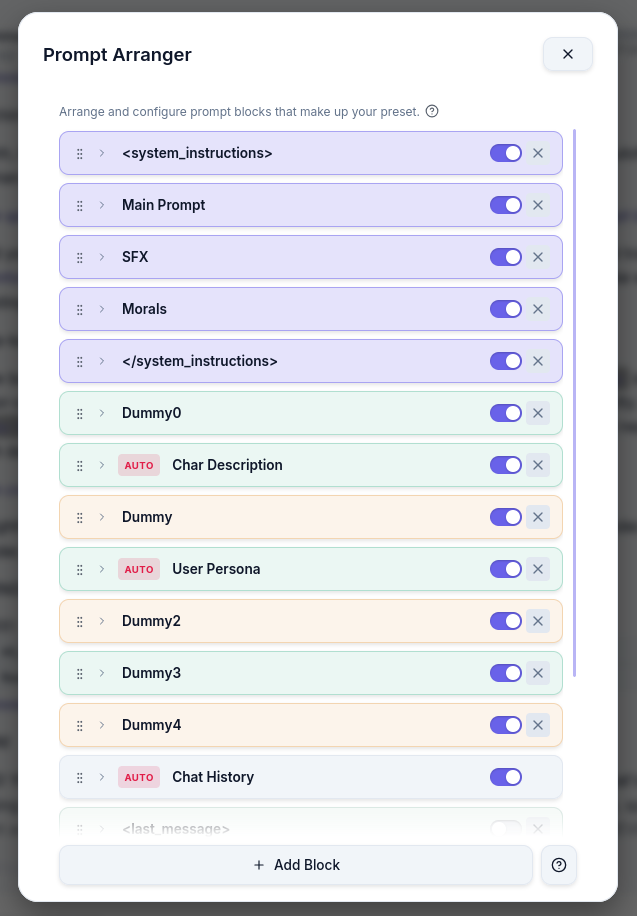
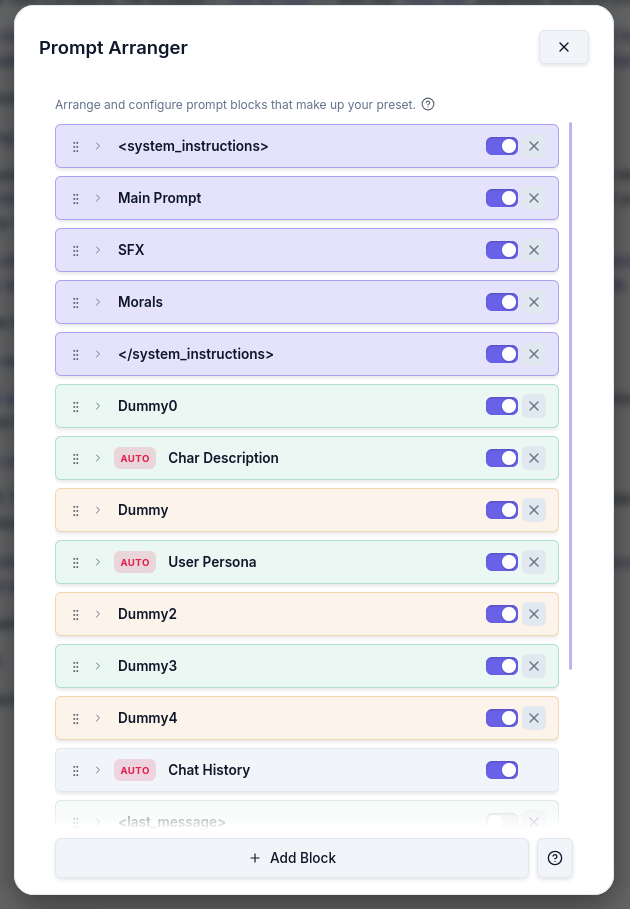
fix css inconsistencies, update screenshots

diff --git a/templates/characters.html b/templates/characters.html
@@ -113,7 +113,7 @@
                 {% for img in char.images %}
                 {{ media_thumbnail(img, "deleteCharMedia", ' id="char-media-' + img.id + '"') }}
                 {% endfor %}
-                <label class="btn btn-secondary btn-sm block-media-btn" style="height: 48px; padding: 0 0.5rem; display: flex; align-items: center; justify-content: center; cursor: pointer; border-radius: 4px; border-style: dashed; flex-shrink: 0; margin: 0;" title="Add Image or Audio">
+                <label class="btn btn-secondary btn-sm block-media-btn" style="height: 48px; padding: 0 0.5rem; display: flex; align-items: center; justify-content: center; cursor: pointer; border-radius: var(--radius-sm); border-style: dashed; flex-shrink: 0; margin: 0;" title="Add Image or Audio">
                   {{ icon_plus(20) }}
                   <input type="file" accept="image/*,audio/*" class="hidden block-media-input" data-char-id="{{ char.id }}" onchange="uploadCharMedia(this)">
                 </label>
@@ -220,7 +220,7 @@
                   {% for img in block.images %}
                   {{ media_thumbnail(img, "deleteCharBlockMedia", '') }}
                   {% endfor %}
-                  <label class="btn btn-secondary btn-sm" style="height: 48px; padding: 0 0.5rem; display: flex; align-items: center; justify-content: center; cursor: pointer; border-radius: 4px; border-style: dashed; flex-shrink: 0; margin: 0;" title="Add Image or Audio">
+                  <label class="btn btn-secondary btn-sm" style="height: 48px; padding: 0 0.5rem; display: flex; align-items: center; justify-content: center; cursor: pointer; border-radius: var(--radius-sm); border-style: dashed; flex-shrink: 0; margin: 0;" title="Add Image or Audio">
                     {{ icon_plus(20) }}
                     <input type="file" accept="image/*,audio/*" class="hidden" data-char-id="{{ char.id }}" data-block-id="{{ block.id }}" onchange="uploadCharBlockMedia(this)">
                   </label>
@@ -273,7 +273,7 @@
     </div>
     
     <div class="char-block-media-section" style="margin-top: 0.5rem; display: flex; gap: 0.5rem; flex-wrap: wrap; align-items: center;">
-      <label class="btn btn-secondary btn-sm block-media-btn" style="height: 48px; padding: 0 0.5rem; display: flex; align-items: center; justify-content: center; cursor: pointer; border-radius: 4px; border-style: dashed; flex-shrink: 0; margin: 0;" title="Add Image or Audio">
+      <label class="btn btn-secondary btn-sm block-media-btn" style="height: 48px; padding: 0 0.5rem; display: flex; align-items: center; justify-content: center; cursor: pointer; border-radius: var(--radius-sm); border-style: dashed; flex-shrink: 0; margin: 0;" title="Add Image or Audio">
         {{ icon_plus(20) }}
         <input type="file" accept="image/*,audio/*" class="hidden block-media-input">
       </label>

diff --git a/partials/modals/itemizer.html b/partials/modals/itemizer.html
@@ -6,8 +6,8 @@
     <div class="text-xs text-muted">Visualize and estimate tokens for the outbound prompt.</div>
     <div class="flex items-center gap-3">
       <span
-        class="text-sm font-mono bg-surface-2 px-2 py-1 rounded"
-        style="background: var(--surface-2); border: 1px solid var(--border)"
+        class="text-sm font-mono"
+        style="background: var(--surface-2); border: 1px solid var(--border); border-radius: var(--radius-sm); padding: 0.35rem 0.75rem"
         title="Uses cl100k_base estimation"
       >
         Tokens: <span class="font-bold text-(--active-text)" x-text="totalTokens">...</span>
@@ -27,8 +27,8 @@
     <template x-for="(msg, i) in messages" :key="i">
       <div
         x-data="{ expanded: false }"
-        class="rounded-md overflow-hidden shrink-0"
-        style="border: 1px solid var(--border)"
+        class="overflow-hidden shrink-0"
+        style="border: 1px solid var(--border); border-radius: var(--radius-sm)"
       >
         <div
           class="px-3 py-2 flex justify-between items-center text-xs font-bold uppercase tracking-wider cursor-pointer select-none"
@@ -54,15 +54,15 @@
             <template x-for="(part, j) in msg.parts" :key="j">
               <div
                 x-show="part.type !== 'reasoning'"
-                :class="part.type !== 'text' ? 'text-(--accent) font-mono text-xs p-2 rounded bg-surface-2 border inline-block w-max' : 'whitespace-pre-wrap'"
-                :style="part.type !== 'text' ? 'background: var(--surface-2); border-color: var(--border);' : ''"
+                :class="part.type !== 'text' ? 'text-(--accent) font-mono text-xs p-2 bg-surface-2 border inline-block w-max' : 'whitespace-pre-wrap'"
+                :style="part.type !== 'text' ? 'background: var(--surface-2); border-color: var(--border); border-radius: var(--radius-sm);' : ''"
                 x-text="part.type !== 'text' ? part.text + ' (' + part.tokens + ' tk)' : part.text"
               ></div>
             </template>
             <template x-for="(part, j) in msg.parts" :key="'r'+j">
               <div x-show="part.type === 'reasoning'" x-data="{ rOpen: false }"
-                class="reasoning-itemizer border-l-2 rounded p-2 mt-1"
-                style="border-color: var(--accent); background: var(--surface-2);">
+                class="reasoning-itemizer border-l-2 p-2 mt-1"
+                style="border-color: var(--accent); background: var(--surface-2); border-radius: var(--radius-sm);">
                 <div class="flex items-center justify-between cursor-pointer select-none text-xs text-muted"
                   @click="rOpen = !rOpen">
                   <span class="font-mono" x-text="'reasoning (' + part.tokens + ' tk)'"></span>

diff --git a/templates/macros.html b/templates/macros.html
@@ -32,7 +32,7 @@
 
    <div x-show="open" @click.away="open = false" x-transition.opacity.duration.200ms
         class="absolute top-full left-0 right-0 mt-1 z-50 max-h-60 overflow-y-auto"
-        style="background: var(--surface-2); border: 1px solid var(--border); border-radius: var(--radius-md); box-shadow: var(--shadow-lg); display: none;">
+        style="background: var(--surface-2); border: 1px solid var(--border); border-radius: var(--radius-sm); box-shadow: var(--shadow-lg); display: none;">
 
       {% for opt in options %}
       <div class="px-3 py-2 cursor-pointer transition-colors duration-150 {{ extra_classes }}"
@@ -73,15 +73,14 @@
        }
      }">
   <button type="button" @click="open = !open"
-          class="form-control flex items-center justify-between gap-1 text-sm cursor-pointer"
-          style="padding: 0.35rem 0.5rem;">
+          class="btn btn-secondary btn-sm flex items-center justify-between gap-1 cursor-pointer">
     <span x-text="label"></span>
     <span class="text-muted" :class="open ? 'rotate-180' : ''"
           style="transition: transform 0.2s; display: inline-flex;">{{ icon_chevron_down(12) }}</span>
   </button>
   <div x-show="open" @click.away="open = false" x-transition.opacity.duration.200ms
        class="absolute top-full right-0 mt-1 z-50"
-       style="background: var(--surface-2); border: 1px solid var(--border); border-radius: var(--radius-md); box-shadow: var(--shadow-lg); display: none; min-width: 120px;">
+               style="background: var(--surface-2); border: 1px solid var(--border); border-radius: var(--radius-sm); box-shadow: var(--shadow-lg); display: none; min-width: 120px;">
     <div class="px-3 py-2 cursor-pointer text-sm whitespace-nowrap"
          :class="{ 'text-[var(--accent)] font-medium': active === 'newest' }"
          @click="select('newest')"
@@ -246,7 +245,7 @@
 {% endmacro %}
 
 {% macro media_thumbnail(img, action_name, extra_attrs='') %}
-<div class="relative group" style="width:48px;height:48px;border-radius:4px;overflow:hidden;border:1px solid var(--border);flex-shrink:0" data-image-id="{{ img.id }}"{{ extra_attrs | safe }}>
+<div class="relative group" style="width:48px;height:48px;border-radius:var(--radius-sm);overflow:hidden;border:1px solid var(--border);flex-shrink:0" data-image-id="{{ img.id }}"{{ extra_attrs | safe }}>
   {% if img.mime_type and img.mime_type.startswith('audio/') %}
   <div style="width:100%;height:100%;background:var(--surface-3);display:grid;place-items:center;" title="Audio Attachment">{{ icon_music(24) }}</div>
   {% else %}

diff --git a/static/css/components.css b/static/css/components.css
@@ -15,7 +15,7 @@
     background: var(--surface-2);
     border: 1px solid var(--border);
     color: var(--text);
-    border-radius: var(--radius-md);
+    border-radius: var(--radius-sm);
     padding: 0.6rem 0.8rem;
     font-family: inherit;
     font-size: 0.9rem;
@@ -83,7 +83,7 @@
   /* Buttons */
   .btn {
     padding: 0.5rem 1rem;
-    border-radius: var(--radius-md);
+    border-radius: var(--radius-sm);
     border: 1px solid transparent;
     cursor: pointer;
     font-size: 0.85rem;
@@ -141,7 +141,7 @@
     position: relative;
     width: 32px;
     height: 18px;
-    border-radius: 9px;
+    border-radius: var(--radius-sm);
     background: var(--surface-3);
     cursor: pointer;
     transition: background 0.3s ease;
@@ -197,7 +197,7 @@
   }
   .radio-add-row {
     border: 1px dashed var(--border);
-    border-radius: var(--radius-md);
+    border-radius: var(--radius-sm);
     cursor: pointer;
     transition: all var(--transition);
   }
@@ -241,7 +241,7 @@
   .arranger-item {
     background: var(--surface-2);
     border: 1px solid var(--border);
-    border-radius: var(--radius-md);
+    border-radius: var(--radius-sm);
     padding: 0.5rem 0.75rem;
     cursor: grab;
     transition: all var(--transition);
@@ -270,7 +270,7 @@
     outline: 2px dashed var(--accent);
     outline-offset: 2px;
     background: var(--active-bg);
-    border-radius: 4px;
+    border-radius: var(--radius-sm);
   }
 
   .arranger-header {
@@ -332,7 +332,7 @@
     text-transform: uppercase;
     font-weight: 700;
     padding: 0.2rem 0.4rem;
-    border-radius: 4px;
+    border-radius: var(--radius-sm);
     background: var(--surface-3);
     color: var(--text-muted);
     white-space: nowrap;
@@ -376,7 +376,7 @@
     color: var(--text-muted);
     width: 24px;
     height: 24px;
-    border-radius: 4px;
+    border-radius: var(--radius-sm);
     display: grid;
     place-items: center;
     font-size: 0.75rem;
@@ -431,7 +431,7 @@
     background: var(--surface-3);
     border: 1px solid var(--border);
     color: var(--text);
-    border-radius: 4px;
+    border-radius: var(--radius-sm);
     padding: 0.2rem 0.4rem;
     font-size: 0.75rem;
     outline: none;
@@ -452,7 +452,7 @@
     min-width: 0;
     cursor: pointer;
     padding: 0.2rem 0.4rem;
-    border-radius: 4px;
+    border-radius: var(--radius-sm);
     transition: background var(--transition);
     color: var(--text-muted);
     font-size: 0.8rem;

diff --git a/partials/modals/providers.html b/partials/modals/providers.html
@@ -4,8 +4,8 @@
     <h3 class="sidebar-title mb-0">Select Active Provider</h3>
     <div class="flex gap-2 items-center shrink-0">
       {{ sort_dropdown('focus_providers_sort', 'sortProviders') }}
-      <button class="btn btn-secondary btn-sm flex items-center gap-1.5" onclick="openSecretsManager()" style="height: 32px;">{{ icon_key(14) }} Keys</button>
-      <button class="btn btn-primary btn-sm flex items-center gap-1.5" data-action="actionOpenProviderCreateModal" style="height: 32px;">{{ icon_plus(14) }} Add Provider</button>
+      <button class="btn btn-secondary btn-sm flex items-center gap-1.5" onclick="openSecretsManager()">{{ icon_key(14) }} Keys</button>
+      <button class="btn btn-primary btn-sm flex items-center gap-1.5" data-action="actionOpenProviderCreateModal">{{ icon_plus(14) }} Add Provider</button>
     </div>
   </div>
   
@@ -165,7 +165,7 @@
   <div class="modal-content flex flex-col p-0" style="max-width: 800px; width: 95vw; height: 80vh; overflow: hidden; background: var(--surface);">
     <div class="modal-header p-4" style="margin-bottom: 0; border-bottom: 1px solid var(--border);">
       <div class="modal-title">Select Model</div>
-      <button class="btn btn-secondary" data-action="actionCloseFetchModels" aria-label="Close">{{ icon_close(16) }}</button>
+      <button class="btn btn-secondary btn-sm" data-action="actionCloseFetchModels" aria-label="Close">{{ icon_close(16) }}</button>
     </div>
     
     <div class="p-4" style="background: var(--surface-2); border-bottom: 1px solid var(--border);">
@@ -226,7 +226,7 @@
   <div class="modal-content flex flex-col p-0" style="max-width: 800px; width: 95vw; height: 75vh; overflow: hidden; background: var(--surface);">
     <div class="modal-header p-4" style="margin-bottom: 0; border-bottom: 1px solid var(--border);">
       <div class="modal-title secrets-title">Select API Key</div>
-      <button class="btn btn-secondary" data-action="actionCloseSecrets" aria-label="Close">{{ icon_close(16) }}</button>
+      <button class="btn btn-secondary btn-sm" data-action="actionCloseSecrets" aria-label="Close">{{ icon_close(16) }}</button>
     </div>
     
     <div class="p-4" style="background: var(--surface-2); border-bottom: 1px solid var(--border);">

diff --git a/templates/presets.html b/templates/presets.html
@@ -6,11 +6,11 @@
     <h1 class="text-xl font-bold">Presets</h1>
     <div class="flex gap-3">
       <form onsubmit="createPreset(event)" class="flex gap-2">
-        <input type="text" name="name" placeholder="New preset name" required class="text-sm" style="background:var(--surface-2);border:1px solid var(--border);color:var(--text);border-radius:6px;padding:0.4rem;">
+        <input type="text" name="name" placeholder="New preset name" required class="text-sm" style="background:var(--surface-2);border:1px solid var(--border);color:var(--text);border-radius:var(--radius-sm);padding:0.4rem;">
         <button class="btn btn-primary btn-sm">Create</button>
       </form>
       <form onsubmit="importPreset(event)" class="flex gap-2" enctype="multipart/form-data">
-        <input type="file" name="file" accept=".json" required class="text-sm" style="background:var(--surface-2);border:1px solid var(--border);color:var(--text);border-radius:6px;padding:0.4rem;max-width:180px;">
+        <input type="file" name="file" accept=".json" required class="text-sm" style="background:var(--surface-2);border:1px solid var(--border);color:var(--text);border-radius:var(--radius-sm);padding:0.4rem;max-width:180px;">
         <button class="btn btn-secondary btn-sm">Import</button>
       </form>
     </div>
@@ -26,7 +26,7 @@
 
     <!-- Block editor -->
     <div class="flex-1 flex flex-col gap-2 min-w-0">
-      <div class="flex-1 overflow-auto" id="preset-editor" style="background:var(--surface);border:1px solid var(--border);border-radius:10px;padding:1rem;">
+      <div class="flex-1 overflow-auto" id="preset-editor" style="background:var(--surface);border:1px solid var(--border);border-radius:var(--radius-sm);padding:1rem;">
         {% if presets %}
           {% with preset_id = presets[0].id, blocks = presets[0].blocks %}
             {% include "presets/preset-editor.html" %}

diff --git a/static/css/chat.css b/static/css/chat.css
@@ -142,14 +142,14 @@
     background: rgba(0, 0, 0, 0.3);
     color: var(--accent-hover);
     padding: 0.15rem 0.35rem;
-    border-radius: 4px;
+    border-radius: var(--radius-sm);
     font-family: ui-monospace, monospace;
     font-size: 0.85em;
   }
   .markdown-content pre {
     background: var(--surface-3);
     padding: 1rem;
-    border-radius: var(--radius-md);
+    border-radius: var(--radius-sm);
     white-space: pre-wrap;
     word-break: break-word;
     overflow-wrap: break-word;
@@ -198,7 +198,7 @@
     padding: 0.4em 0.8em;
     margin: 0.2em 0;
     border: 1px dashed var(--border);
-    border-radius: 6px;
+    border-radius: var(--radius-sm);
     background: var(--surface-1);
     font-size: 0.85em;
     color: var(--text-muted);
@@ -209,7 +209,7 @@
   .external-media-btn {
     padding: 0.15em 0.6em;
     border: 1px solid var(--border);
-    border-radius: 4px;
+    border-radius: var(--radius-sm);
     background: var(--surface-2);
     color: var(--text);
     cursor: pointer;
@@ -326,7 +326,7 @@
     color: var(--text-muted);
     margin: 1rem 0;
     background: var(--surface-2);
-    border-radius: 0 var(--radius-md) var(--radius-md) 0;
+    border-radius: 0 var(--radius-sm) var(--radius-sm) 0;
   }
   .markdown-content ul {
     list-style-type: disc;

diff --git a/partials/modals/tools.html b/partials/modals/tools.html
@@ -60,13 +60,13 @@
           placeholder="Search tools..."
           x-model="searchQuery"
           class="text-sm w-full"
-          style="padding-left:2rem;padding-right:0.5rem;padding-top:0.35rem;padding-bottom:0.35rem;background:var(--surface-2);border:1px solid var(--border);color:var(--text);border-radius:var(--radius-md)"
+          style="padding-left:2rem;padding-right:0.5rem;padding-top:0.35rem;padding-bottom:0.35rem;background:var(--surface-2);border:1px solid var(--border);color:var(--text);border-radius:var(--radius-sm)"
         >
       </div>
       {{ sort_dropdown('focus_tools_sort', 'sortTools') }}
       <button
         class="flex items-center text-sm cursor-pointer shrink-0"
-        style="padding:0.35rem 0.5rem;background:var(--surface-2);border:1px solid var(--border);color:var(--text-muted);border-radius:var(--radius-md)"
+        style="padding:0.35rem 0.5rem;background:var(--surface-2);border:1px solid var(--border);color:var(--text-muted);border-radius:var(--radius-sm)"
         @click="reloadTools()"
         x-text="reloading ? 'Reloading...' : 'Reload'"
       ></button>

diff --git a/partials/modals/character-card.html b/partials/modals/character-card.html
@@ -8,7 +8,7 @@
   <div class="card-view-full h-full flex flex-col" style="display:{{ 'none' if compact_view else 'flex' }};">
     <div
       class="card-image"
-      style="aspect-ratio: 1/1; border-radius: 12px 12px 0 0; cursor: pointer"
+      style="aspect-ratio: 1/1; border-radius: var(--radius-lg) var(--radius-lg) 0 0; cursor: pointer"
       role="button"
       tabindex="0"
       onclick="selectCharModal(this)"
@@ -20,7 +20,7 @@
         src="/{{ char.image_path }}"
         alt="{{ char.name }} avatar"
         loading="lazy"
-        style="border-radius: 12px 12px 0 0"
+        style="border-radius: var(--radius-lg) var(--radius-lg) 0 0"
       />
       {% else %}
       <span class="text-3xl">{{ char.name[:1] }}</span>

diff --git a/partials/modals/persona-card.html b/partials/modals/persona-card.html
@@ -8,7 +8,7 @@
   <div class="persona-view-full h-full flex flex-col" style="display:{{ 'none' if compact_view else 'flex' }};">
     <div
       class="card-image"
-      style="aspect-ratio: 1/1; border-radius: 12px 12px 0 0; cursor: pointer"
+      style="aspect-ratio: 1/1; border-radius: var(--radius-lg) var(--radius-lg) 0 0; cursor: pointer"
       role="button"
       tabindex="0"
       onclick="selectPersonaModal(this)"
@@ -20,7 +20,7 @@
         src="/{{ p.avatar_path }}"
         alt="{{ p.name }} avatar"
         loading="lazy"
-        style="border-radius: 12px 12px 0 0"
+        style="border-radius: var(--radius-lg) var(--radius-lg) 0 0"
       />
       {% else %}
       <span class="text-3xl">{{ p.name[:1] }}</span>

diff --git a/static/css/input.css b/static/css/input.css
@@ -14,7 +14,7 @@
     background: var(--surface);
     backdrop-filter: blur(8px);
     -webkit-backdrop-filter: blur(8px);
-    border-radius: var(--radius-md);
+    border-radius: var(--radius-sm);
     padding: 0.15rem 0.25rem;
     border: 1px solid var(--border);
     box-shadow: var(--shadow-md);
@@ -127,7 +127,7 @@
     background: var(--accent);
     color: var(--text-on-accent);
     border: none;
-    border-radius: 18px;
+    border-radius: var(--radius-full);
     width: 44px;
     height: 44px;
     cursor: pointer;

diff --git a/partials/personas/persona-card.html b/partials/personas/persona-card.html
@@ -1,4 +1,4 @@
-<div class="p-3" id="persona-{{ p.id }}" data-name="{{ p.name | escape }}" style="background:var(--surface);border:1px solid var(--border);border-radius:10px;">
+<div class="p-3" id="persona-{{ p.id }}" data-name="{{ p.name | escape }}" style="background:var(--surface);border:1px solid var(--border);border-radius:var(--radius-sm);">
   <div class="flex gap-3 items-center mb-2">
     <div class="avatar-thumb" style="width:48px;height:48px;font-size:1.2rem;">
       {% if p.avatar_path %}
